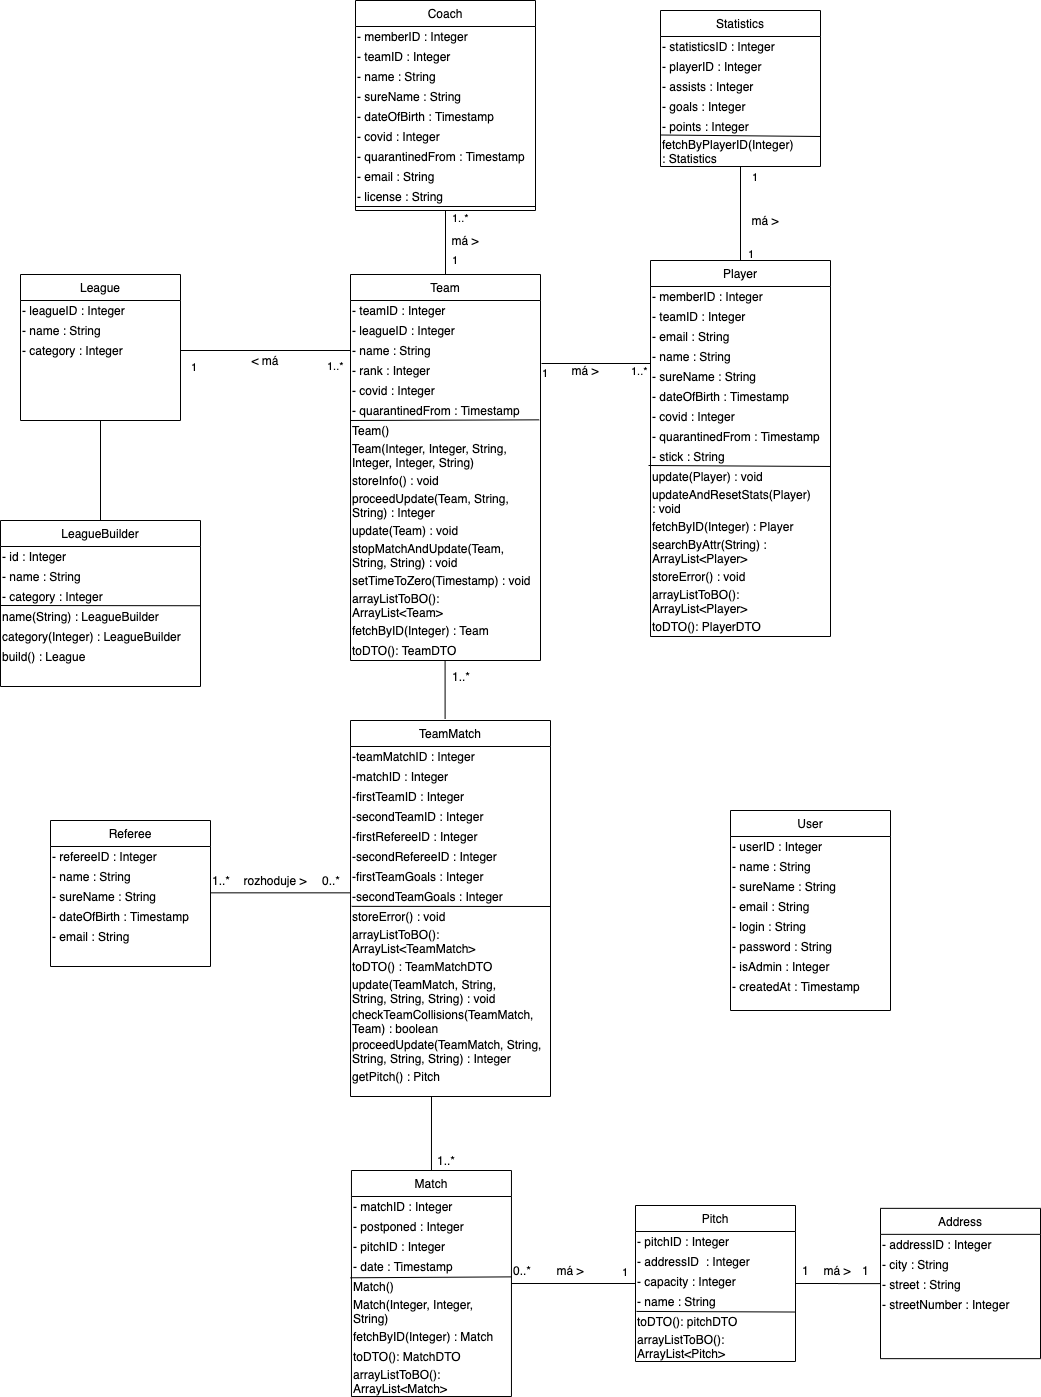
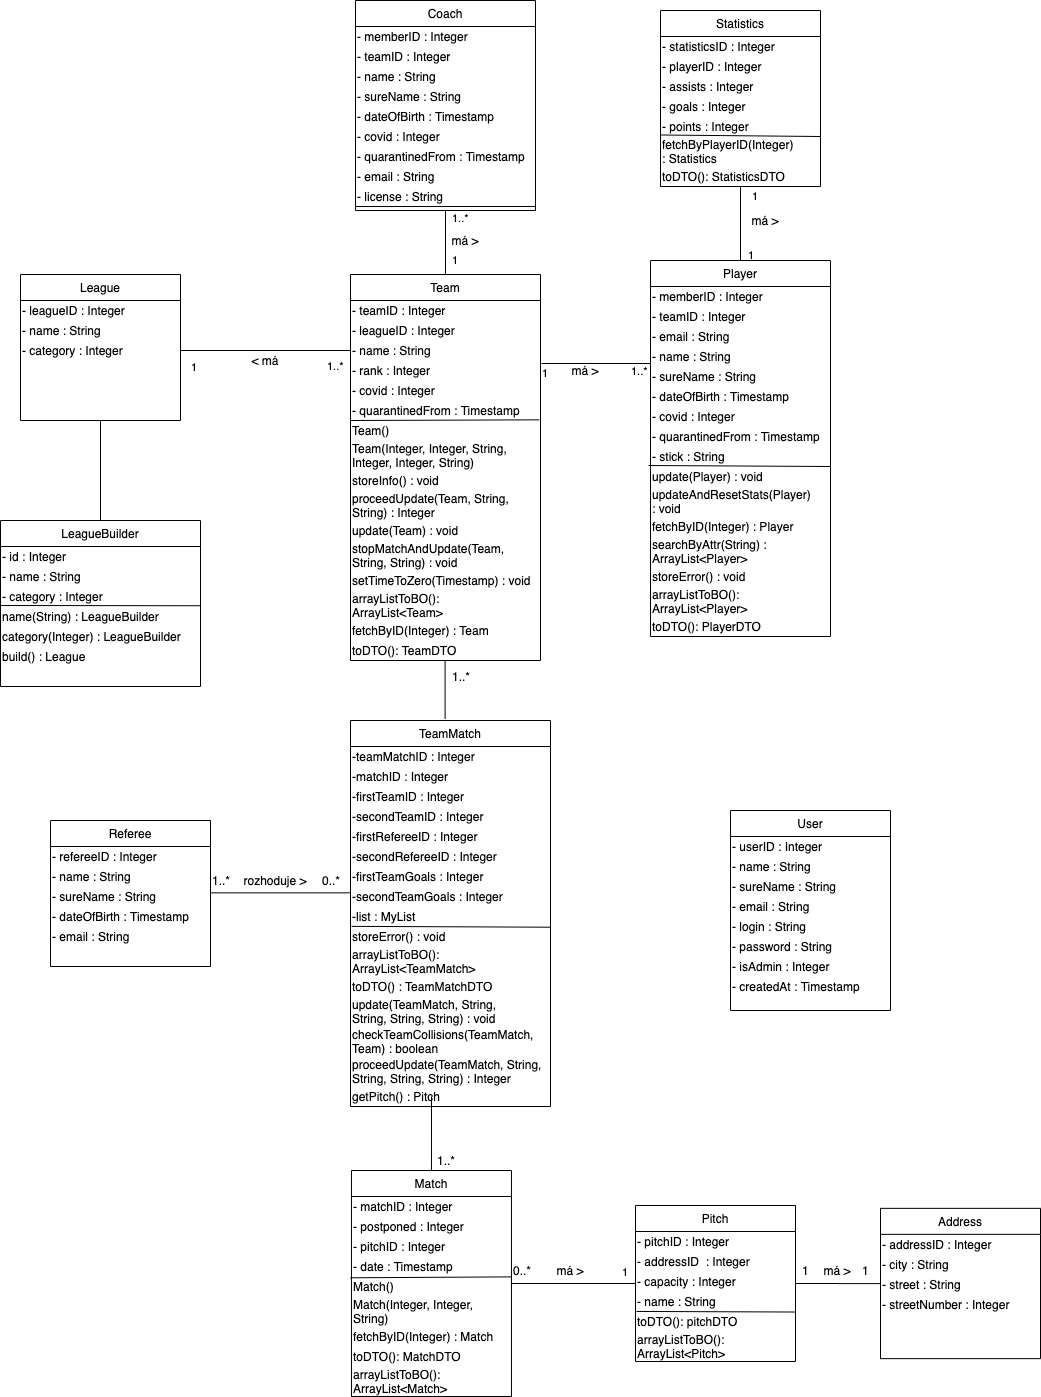
class dto

Changed region(s): [[0.3381, 0.6464, 0.5226, 0.8003], [0.6455, 0.1231, 0.7378, 0.1539]]

diff --git a/src/main/java/gateways/StatisticsGateway.java b/src/main/java/gateways/StatisticsGateway.java
@@ -1,5 +1,6 @@
 package gateways;
 
+import DTO.StatisticsDTO;
 import business.Player;
 import business.Statistics;
 
@@ -16,19 +17,19 @@ public class StatisticsGateway {
     );
     public StatisticsGateway() {};
 
-    public static ArrayList<Statistics> fetch() throws SQLException {
+    public static ArrayList<StatisticsDTO> fetch() throws SQLException {
         ResultSet rs = Table.conn.createStatement().executeQuery("SELECT * FROM Stats");
-        ArrayList<Statistics> stats = new ArrayList<>();
+        ArrayList<StatisticsDTO> stats = new ArrayList<>();
         while (rs.next()) {
-            stats.add(new Statistics(rs.getInt(1), rs.getInt(2), rs.getInt(3), rs.getInt(4), rs.getInt(5)));
+            stats.add(new StatisticsDTO(rs.getInt(1), rs.getInt(2), rs.getInt(3), rs.getInt(4), rs.getInt(5)));
         }
 
         rs.close();
         return stats;
     }
 
-    public static ArrayList<Statistics> fetchByAttr(Object ... values) {
-        ArrayList<Statistics> stats = new ArrayList<>();
+    public static ArrayList<StatisticsDTO> fetchByAttr(Object ... values) {
+        ArrayList<StatisticsDTO> stats = new ArrayList<>();
         if (values.length % 2 != 0 || values.length == 0) throw new IllegalArgumentException("There must be even number of arguments.");
 
         String queryStr = "SELECT * FROM Stats WHERE ";
@@ -51,7 +52,7 @@ public class StatisticsGateway {
 
             ResultSet rs = query.executeQuery();
             while (rs.next()) {
-                stats.add(new Statistics(rs.getInt(1), rs.getInt(2), rs.getInt(3), rs.getInt(4), rs.getInt(5)));
+                stats.add(new StatisticsDTO(rs.getInt(1), rs.getInt(2), rs.getInt(3), rs.getInt(4), rs.getInt(5)));
             }
             rs.close();
         } catch (SQLException e) {
@@ -62,7 +63,7 @@ public class StatisticsGateway {
     }
 
 
-    public static Integer insert(Statistics stats) throws SQLException {
+    public static Integer insert(StatisticsDTO stats) throws SQLException {
         Table t = new Table("Stats", columns);
         String query = t.buildInsert(4, 1);
 
@@ -95,7 +96,7 @@ public class StatisticsGateway {
         return output;
     }
 
-    public static Integer update(Statistics stats) throws SQLException {
+    public static Integer update(StatisticsDTO stats) throws SQLException {
         int output = 0;
         Table t = new Table("Stats", columns);
         String query = t.buildUpdate(1);
@@ -130,17 +131,17 @@ public class StatisticsGateway {
         return -1;
     }
 
-    public static Statistics fetchByPlayerID(Integer pID) {
+    public static StatisticsDTO fetchByPlayerID(Integer pID) {
         String queryStr = "SELECT * FROM Stats WHERE playerID = ?";
         String val = pID.toString();
-        Statistics statistics = new Statistics();
+        StatisticsDTO statistics = new StatisticsDTO();
         try {
             PreparedStatement query = Table.conn.prepareStatement(queryStr);
             query.setString(1, val);
 
             ResultSet rs = query.executeQuery();
             while (rs.next()) {
-                statistics = new Statistics(rs.getInt(1), rs.getInt(2), rs.getInt(3), rs.getInt(4), rs.getInt(5));
+                statistics = new StatisticsDTO(rs.getInt(1), rs.getInt(2), rs.getInt(3), rs.getInt(4), rs.getInt(5));
             }
             rs.close();
         } catch (SQLException e) {

diff --git a/src/main/java/DTO/StatisticsDTO.java b/src/main/java/DTO/StatisticsDTO.java
@@ -1,9 +1,46 @@
 package DTO;
 
+import business.Statistics;
+
 public class StatisticsDTO {
     Integer statsID;
     Integer playerID;
     Integer assists;
     Integer goals;
     Integer points;
+
+    public StatisticsDTO(){};
+    public StatisticsDTO(Integer sID, Integer pID, Integer a, Integer g, Integer p) {
+        this.statsID = sID;
+        this.playerID = pID;
+        this.assists = a;
+        this.goals = g;
+        this.points = p;
+    }
+
+    public Integer getAssists() {
+        return this.assists;
+    }
+
+    public Integer getGoals() {
+        return this.goals;
+    }
+
+    public Integer getPlayerID() {
+        return this.playerID;
+    }
+
+    public Integer getPoints() {
+        return this.points;
+    }
+
+    public Integer getStatsID() {
+        return this.statsID;
+    }
+
+    public Statistics toBO() {
+        Statistics statistics = new Statistics(this.statsID, this.playerID, this.assists, this.goals, this.points);
+        return statistics;
+    }
 }
+

diff --git a/src/main/java/business/Statistics.java b/src/main/java/business/Statistics.java
@@ -1,5 +1,7 @@
 package business;
 
+import DTO.PlayerDTO;
+import DTO.StatisticsDTO;
 import gateways.StatisticsGateway;
 
 public class Statistics {
@@ -44,6 +46,11 @@ public class Statistics {
      * @return Statistics object
      */
     public static Statistics fetchByPlayerID(Integer playerID) {
-        return StatisticsGateway.fetchByPlayerID(playerID);
+        return StatisticsGateway.fetchByPlayerID(playerID).toBO();
+    }
+
+    public StatisticsDTO toDTO() {
+        StatisticsDTO statisticsDTO = new StatisticsDTO(this.statsID, this.playerID, this.assists, this.goals, this.points);
+        return statisticsDTO;
     }
 }
